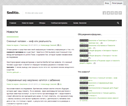
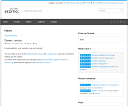
fix tpl & css files for kube css framework 2.0.0

diff --git a/skins/illusion/illusion.css b/skins/illusion/illusion.css
@@ -34,13 +34,19 @@ body {
   padding:0;
 }
 
+.user-menu ul {
+  list-style: none;
+  margin: 0;
+}
+
 .user-menu ul li {
   margin-bottom:0;
+  float: left;
+  margin-right: .5em;
 }
 
 .user-menu ul li a {
   margin-bottom:0;
-  padding:10px 10px;
   -webkit-box-shadow: 0px -2px 6px rgba(50, 50, 50, 0.2);
   -moz-box-shadow:    0px -2px 6px rgba(50, 50, 50, 0.2);
   box-shadow:         0px -2px 6px rgba(50, 50, 50, 0.2);
@@ -49,7 +55,20 @@ body {
    border-top-left-radius: 3px;
   -moz-border-radius-topright: 3px;
   -webkit-border-top-right-radius: 3px;
-  border-top-right-radius: 3px;  
+  border-top-right-radius: 3px;
+	color: #777777;
+	text-decoration: none;
+	background-color: #f3f4f5;
+	display: block;
+	padding: 6px 15px;
+	border-bottom:1px solid #f0f0f0;
+}
+
+
+.user-menu ul li a:hover {
+	color: #010101;
+	text-decoration: none;
+	background-color: #f0f0f0;
 }
 
 .notices {
@@ -351,21 +370,13 @@ select[multiple] {
 
 /* ============== Various ============== */
 
-.submit, .btn {
-  background-color:#5ca20d;
-  background: -moz-linear-gradient(top, #7fff00 0%, #5ca20d 100%);
-  background: -webkit-gradient(linear, left top, left bottom, color-stop(0%, #7fff00), color-stop(100%, #5ca20d));
-  background: -webkit-linear-gradient(top, #7fff00 0%, #5ca20d 100%);
-  background: -o-linear-gradient(top, #7fff00 0%, #5ca20d 100%);
-  background: -ms-linear-gradient(top, #7fff00 0%, #5ca20d 100%);
-  background: linear-gradient(to bottom, #7fff00 0%, #5ca20d 100%);
-  filter: progid:DXImageTransform.Microsoft.gradient(startColorstr='#7fff00', endColorstr='#5ca20d', GradientType=0);  
-  border: 0px;
+.descr {
+  color: #999999;
+  font-size: 0.85em;
+  line-height: 1.5em;
 }
-
-.submit:hover, .btn:hover {
-  background: #80ff00;
-  border: 0px;
+div.descr {
+  margin: 4px 0;
 }
 
 .disp {

diff --git a/skins/minimo/minimo.css b/skins/minimo/minimo.css
@@ -416,22 +416,13 @@ select[multiple] {
 
 /* ============== Various ============== */
 
-.submit, .btn {
-	background-color:#50c0fa;
-	color:#ffffff;
-	background: -moz-linear-gradient(top, #50c0fa 0%, #108dcd 100%);
-	background: -webkit-gradient(linear, left top, left bottom, color-stop(0%, #50c0fa), color-stop(100%, #108dcd));
-	background: -webkit-linear-gradient(top, #50c0fa 0%, #108dcd 100%);
-	background: -o-linear-gradient(top, #50c0fa 0%, #108dcd 100%);
-	background: -ms-linear-gradient(top, #50c0fa 0%, #108dcd 100%);
-	background: linear-gradient(to bottom, #50c0fa 0%, #108dcd 100%);
-	filter: progid:DXImageTransform.Microsoft.gradient(startColorstr='#50c0fa', endColorstr='#108dcd', GradientType=0); 
-	border: 0px;
+.descr {
+  color: #999999;
+  font-size: 0.85em;
+  line-height: 1.5em;
 }
-
-.submit:hover, .btn:hover {
-	background: #108dcd;
-	border: 0px;
+div.descr {
+  margin: 4px 0;
 }
 
 .disp {
